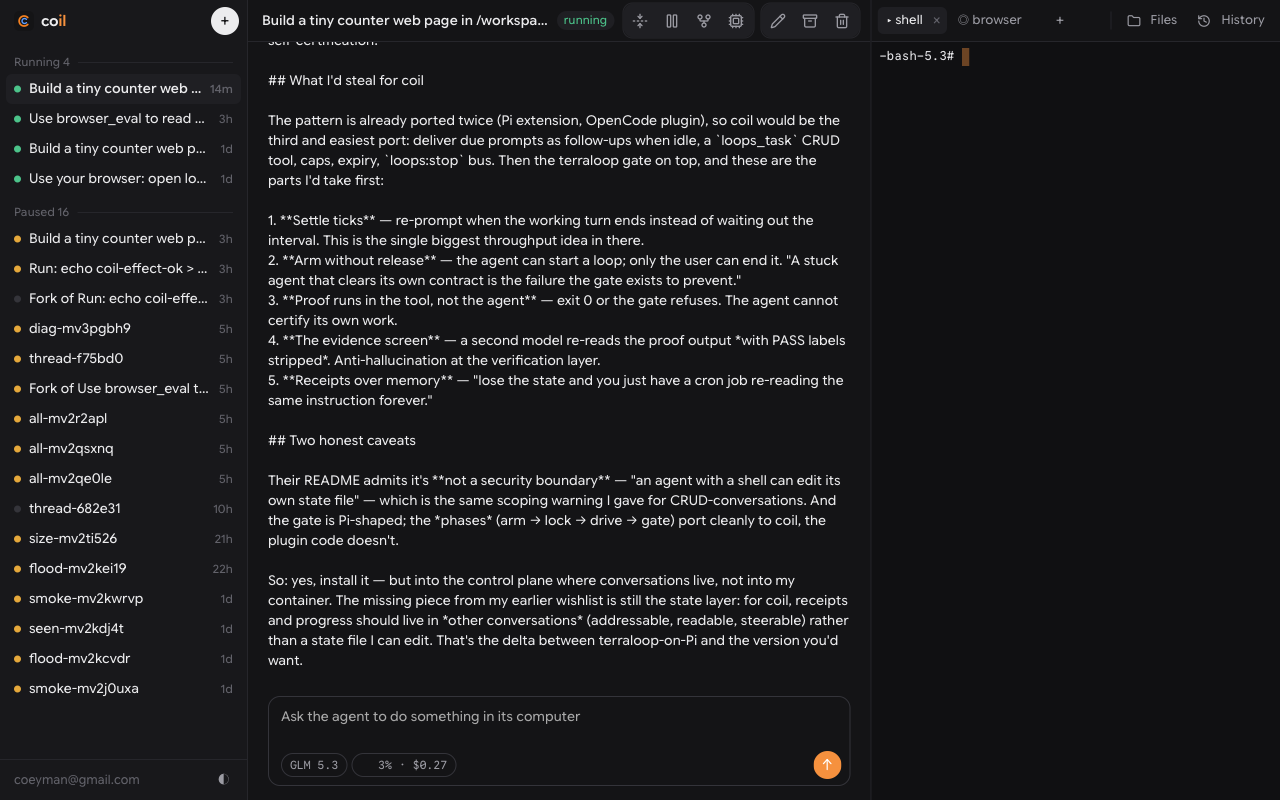
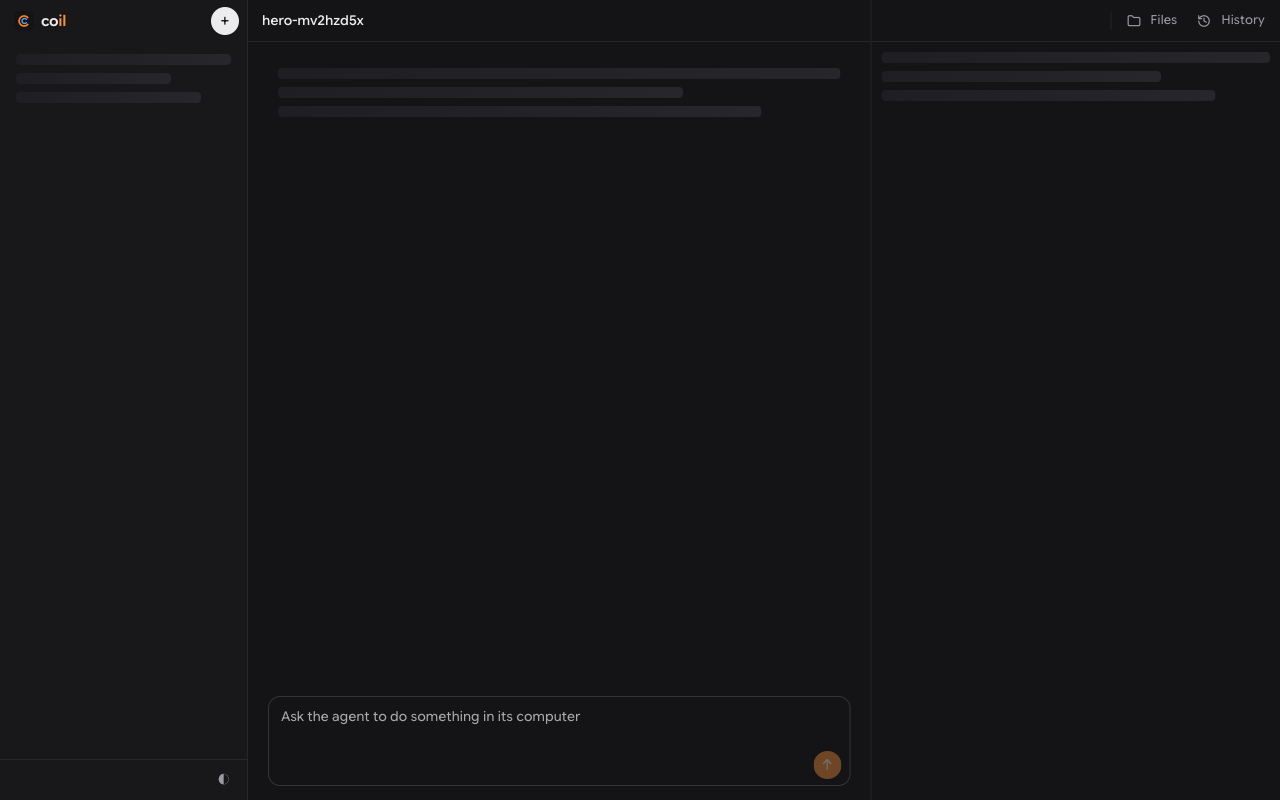
Thin schema-checked RPC client: bundle 129k to 119k gzipped

diff --git a/client/src/rpc.ts b/client/src/rpc.ts
@@ -1,16 +1,110 @@
-import { Context, Layer } from 'effect';
-import { FetchHttpClient } from 'effect/http';
-import { RpcClient, type RpcClientError, RpcSerialization } from 'effect/rpc';
-import { CoilRpcs, RPC_PATH } from '../../shared/protocol';
+import { Context, Data, Effect, Layer, Schema } from 'effect';
+import type { Rpc, RpcGroup } from 'effect/rpc';
+import { type CoilError, CoilRpcs, RPC_PATH } from '../../shared/protocol';
 
-type CoilRpcClient = RpcClient.FromGroup<typeof CoilRpcs, RpcClientError.RpcClientError>;
+export class RpcClientError extends Data.TaggedError('RpcClientError')<{
+  readonly message: string;
+}> {}
+
+type Rpcs = RpcGroup.Rpcs<typeof CoilRpcs>;
+
+type Call<R> =
+  R extends Rpc.Rpc<infer _Tag, infer Payload, infer Success, infer _Error>
+    ? (
+        ...payload: Payload['Type'] extends null | undefined | void ? [] : [Payload['Type']]
+      ) => Effect.Effect<Success['Type'], CoilError | RpcClientError>
+    : never;
+
+export type CoilRpcClient = { readonly [R in Rpcs as R['_tag']]: Call<R> };
 
 export class CoilClient extends Context.Service<CoilClient, CoilRpcClient>()('coil/CoilClient') {}
 
-const protocol = RpcClient.layerProtocolHttp({ url: RPC_PATH }).pipe(
-  Layer.provide([FetchHttpClient.layer, RpcSerialization.layerJson]),
+const Reply = Schema.Array(
+  Schema.Struct({
+    _tag: Schema.Literal('Exit'),
+    exit: Schema.Union([
+      Schema.Struct({ _tag: Schema.Literal('Success'), value: Schema.Unknown }),
+      Schema.Struct({
+        _tag: Schema.Literal('Failure'),
+        cause: Schema.Array(
+          Schema.Struct({ _tag: Schema.String, error: Schema.optional(Schema.Unknown) }),
+        ),
+      }),
+    ]),
+  }),
 );
 
-export const CoilClientLive = Layer.effect(CoilClient, RpcClient.make(CoilRpcs)).pipe(
-  Layer.provide(protocol),
+const broken = (message: string) => () => new RpcClientError({ message });
+
+let nextId = 0;
+
+const post = (body: string) =>
+  Effect.tryPromise({
+    try: async (signal) => {
+      const response = await fetch(RPC_PATH, {
+        method: 'POST',
+        headers: { 'content-type': 'application/json' },
+        body,
+        signal,
+      });
+
+      if (!response.ok) throw new Error(`HTTP ${response.status}`);
+
+      return response.json() as Promise<unknown>;
+    },
+    catch: (cause) =>
+      new RpcClientError({ message: cause instanceof Error ? cause.message : 'network error' }),
+  });
+
+const call = (tag: string, payload: unknown) =>
+  Effect.gen(function* () {
+    const rpc = CoilRpcs.requests.get(tag);
+
+    if (rpc === undefined)
+      return yield* Effect.fail(new RpcClientError({ message: `unknown call ${tag}` }));
+
+    const encoded = yield* Schema.encodeUnknownEffect(rpc.payloadSchema)(payload ?? null).pipe(
+      Effect.mapError(broken('could not encode the request')),
+    );
+
+    nextId += 1;
+
+    const raw = yield* post(
+      JSON.stringify({
+        _tag: 'Request',
+        id: String(nextId),
+        tag,
+        payload: encoded ?? null,
+        headers: [],
+      }),
+    );
+    const [reply] = yield* Schema.decodeUnknownEffect(Reply)(raw).pipe(
+      Effect.mapError(broken('unexpected reply')),
+    );
+
+    if (reply === undefined)
+      return yield* Effect.fail(new RpcClientError({ message: 'empty reply' }));
+
+    if (reply.exit._tag === 'Success')
+      return yield* Schema.decodeUnknownEffect(rpc.successSchema)(reply.exit.value).pipe(
+        Effect.mapError(broken('unexpected value')),
+      );
+
+    const failure = reply.exit.cause.find((part) => part._tag === 'Fail');
+
+    if (failure === undefined)
+      return yield* Effect.fail(new RpcClientError({ message: 'the server failed' }));
+
+    const error = yield* Schema.decodeUnknownEffect(rpc.errorSchema)(failure.error).pipe(
+      Effect.mapError(broken('unexpected error')),
+    );
+
+    return yield* Effect.fail(error as CoilError);
+  });
+
+const client = new Proxy(
+  {},
+  { get: (_target, tag) => (payload?: unknown) => call(String(tag), payload) },
 );
+
+export const CoilClientLive = Layer.succeed(CoilClient, client as CoilRpcClient);

diff --git a/client/src/rpc.test.ts b/client/src/rpc.test.ts
@@ -1,0 +1,43 @@
+import { Effect } from 'effect';
+import { afterEach, describe, expect, it, vi } from 'vitest';
+import { CoilClient, CoilClientLive } from './rpc';
+
+const reply = (exit: unknown) =>
+  new Response(JSON.stringify([{ _tag: 'Exit', requestId: '1', exit }]));
+
+const run = <A, E>(effect: Effect.Effect<A, E, CoilClient>) =>
+  Effect.runPromise(Effect.result(effect.pipe(Effect.provide(CoilClientLive))));
+
+describe('the thin rpc client', () => {
+  afterEach(() => vi.unstubAllGlobals());
+
+  it('sends payload null for calls without input and decodes the value', async () => {
+    const fetch = vi.fn(async () => reply({ _tag: 'Success', value: ['lite'] }));
+
+    vi.stubGlobal('fetch', fetch);
+
+    const out = await run(Effect.flatMap(CoilClient, (client) => client.Sizes()));
+    const sent = JSON.parse(
+      String(
+        (fetch.mock.calls[0] as unknown[])[1] &&
+          ((fetch.mock.calls[0] as unknown[])[1] as RequestInit).body,
+      ),
+    );
+
+    expect(sent).toMatchObject({ _tag: 'Request', tag: 'Sizes', payload: null });
+    expect(out).toMatchObject({ _tag: 'Success', success: ['lite'] });
+  });
+
+  it('turns a tagged server failure into the typed error', async () => {
+    vi.stubGlobal('fetch', async () =>
+      reply({
+        _tag: 'Failure',
+        cause: [{ _tag: 'Fail', error: { _tag: 'UnknownThread', name: 'x' } }],
+      }),
+    );
+
+    const out = await run(Effect.flatMap(CoilClient, (client) => client.ViewThread({ name: 'x' })));
+
+    expect(out).toMatchObject({ _tag: 'Failure', failure: { _tag: 'UnknownThread', name: 'x' } });
+  });
+});

diff --git a/client/src/command.ts b/client/src/command.ts
@@ -1,12 +1,11 @@
 import { Duration, Effect, Schema } from 'effect';
-import type { RpcClientError } from 'effect/rpc';
 import { Command, Navigation } from 'foldkit';
 import { type CoilError, Size, SurfaceKind } from '../../shared/protocol';
 import { Message } from './message';
 import { Action, Theme, ThreadOp } from './model';
-import { CoilClient } from './rpc';
+import { CoilClient, type RpcClientError } from './rpc';
 
-export const reasonOf = (error: CoilError | RpcClientError.RpcClientError): string => {
+export const reasonOf = (error: CoilError | RpcClientError): string => {
   switch (error._tag) {
     case 'UnknownThread':
       return `unknown thread ${error.name}`;
